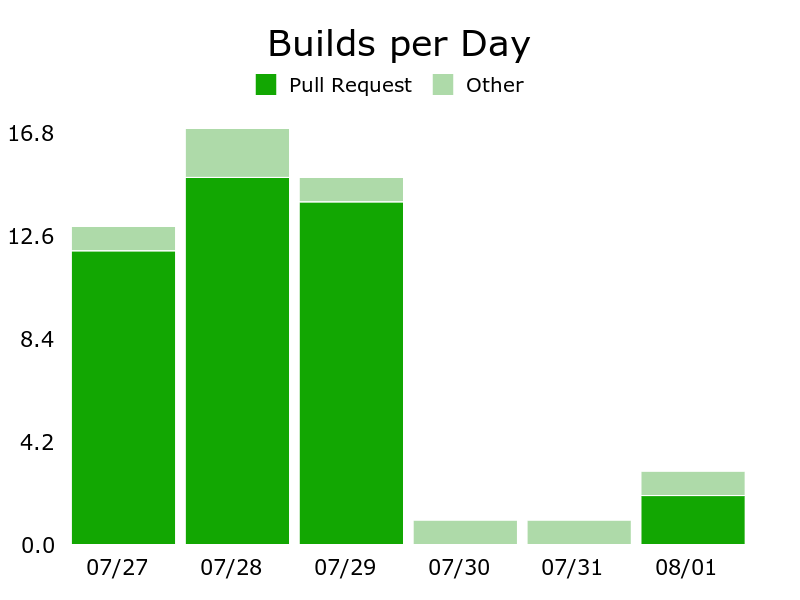
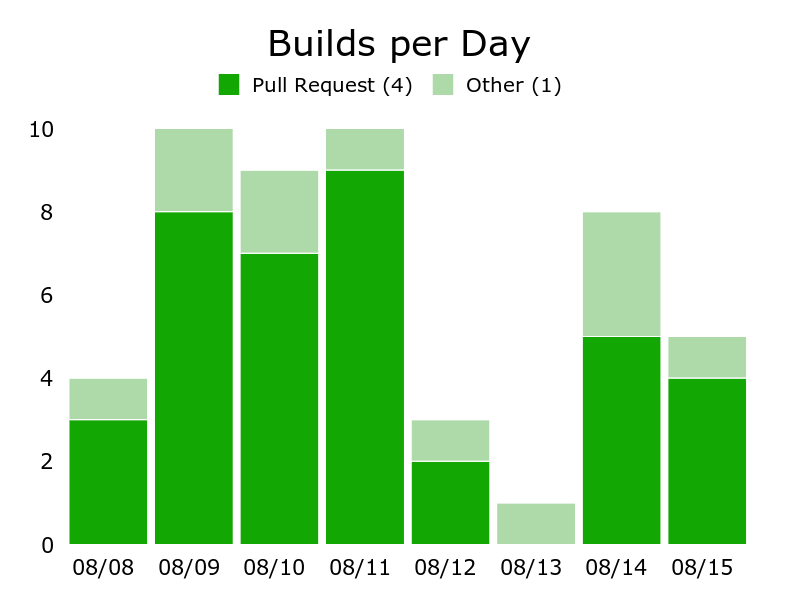
Added current data display

diff --git a/gen-builds-chart.rb b/gen-builds-chart.rb
@@ -1,15 +1,5 @@
 require 'gruff'
 require 'mongo'
-
-coverage_data = [
-  [ "2.4", 2187 + 46079, 697 + 31899 ],
-  [ "2.5", 2198 + 46186, 297 + 23172 ]
-]
-
-# To-Do: Fill in coverage data
-
-require 'gruff'
-require 'mongo'
 require_relative 'constants'
 
 # Script that generates a chart displaying number of builds per day by branch/PR.
@@ -55,6 +45,6 @@ g.theme = {
   :background_colors => 'white'
 }
 g.font = '/Library/Fonts/Verdana.ttf'
-g.data("Pull Request", coverage_data.map {|data| data[1]})
-g.data("Other", coverage_data.map {|data| data[2]})
+g.data("Pull Request (#{coverage_data[coverage_data.size - 1][1]})", coverage_data.map {|data| data[1]})
+g.data("Other (#{coverage_data[coverage_data.size - 1][2]})", coverage_data.map {|data| data[2]})
 g.write "output/daily-builds.png"

diff --git a/gen-localized-chart.rb b/gen-localized-chart.rb
@@ -23,9 +23,9 @@ g = Gruff::Line.new
 g.title = 'Localization'
 g.labels = coverage_data.each_with_index.map {|data, i| [ i, data[0] ]}.to_h
 g.dot_style = :square
-g.data("# strings", coverage_data.map {|data| data[1]})
-g.data("# descriptions", coverage_data.map {|data| data[2]})
-g.data("# words", coverage_data.map {|data| data[3]})
+g.data("# strings (#{coverage_data[coverage_data.size - 1][1]})", coverage_data.map {|data| data[1]})
+g.data("# descriptions (#{coverage_data[coverage_data.size - 1][2]})", coverage_data.map {|data| data[2]})
+g.data("# words (#{coverage_data[coverage_data.size - 1][3]})", coverage_data.map {|data| data[3]})
 g.x_axis_label = 'Pull Request'
 
 g.theme = {

diff --git a/gen-times-chart.rb b/gen-times-chart.rb
@@ -32,7 +32,7 @@ g = Gruff::Line.new
 g.title = 'Build Times'
 g.labels = coverage_data.each_with_index.map {|data, i| [ i, data[0] ]}.to_h
 g.dot_style = :square
-g.data("time (min)", coverage_data.map {|data| data[1]})
+g.data("minutes (#{coverage_data[coverage_data.size - 1][1]})", coverage_data.map {|data| data[1]})
 g.x_axis_label = 'Pull Request'
 
 g.theme = {

diff --git a/gen-warn-chart.rb b/gen-warn-chart.rb
@@ -22,7 +22,7 @@ g = Gruff::Line.new
 g.title = 'Warnings'
 g.labels = coverage_data.each_with_index.map {|data, i| [ i, data[0] ]}.to_h
 g.dot_style = :square
-g.data("# warnings", coverage_data.map {|data| data[1]})
+g.data("# warnings (#{coverage_data[coverage_data.size - 1][1]})", coverage_data.map {|data| data[1]})
 g.x_axis_label = ''
 
 g.theme = {
